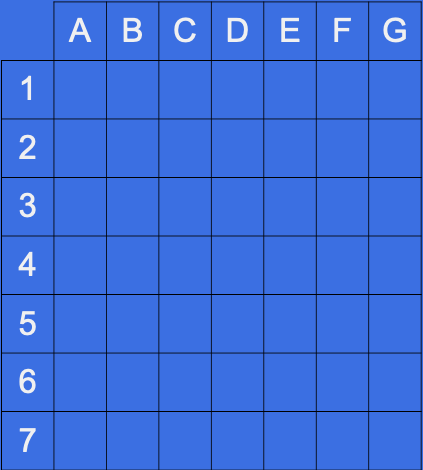
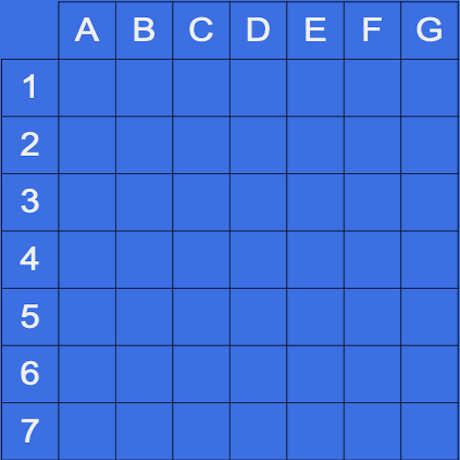
Manage grid coordinate user input

diff --git a/Main.py b/Main.py
@@ -6,7 +6,7 @@ pygame.init()
 
 monitorSize = [pygame.display.Info().current_w, pygame.display.Info().current_h] #Get's the monitor size of the user's computer
 #For mine, Macbook Air 2015, it's 13.3-inch, 1440 x 900 pixel display (128 ppi) so it'll be [1440, 900]
-print(monitorSize)
+
 windowSize = (800, 600) #TODO: Make the default size relative to the screen size
 screen = pygame.display.set_mode(windowSize, pygame.RESIZABLE)
 pygame.display.set_caption("Pirate Game")
@@ -64,9 +64,10 @@ def loadGame():
     shield = bool(states[1])
     mirror = bool(states[2])
     bankAmount = int(states[3])
-    #enteredCoordinates = states[4].replace("[", "").replace("]", "").split(", ")     does the same as below, easier to read 
+    #enteredCoordinates = states[4].replace("[", "").replace("]", "").split(", ")     does the same as below, both work. 
     enteredCoordinates = states[4][1:len(states[4])-1].split(", ")
     
+    #convert from 1 huge 1D array called items to a 7 by 7 2D array of Strings called gridString
     items = states[5][:len(states[5])-2].replace("[", "").replace("]", "").replace(" ", "").split(",")
     gridString = []
     itemNumber = 0
@@ -83,11 +84,13 @@ def loadGame():
         "shield": Shield(), "sinkship": SinkShip(), "backstab": Backstab(), "sneakpeek": SneakPeak(),
         "bank": Bank(), "$200": Cash(200), "$1000": Cash(1000), "$3000": Cash(3000), "$5000": Cash(5000)
         }
+    
+    #turn the grid into a grid of game item objects instead of grid of strings
     for rowNum, row in enumerate(gridString):
         grid.append([])
         for element in row:
             grid[rowNum].append(itemDict[element])
-    
+            
     mainScreen(grid, enteredCoordinates, cash, bankAmount, shield, mirror)
 
 def titleScreen():
@@ -182,6 +185,7 @@ def mainScreen(grid, enteredCoordinates, cash, bankAmount, shield, mirror):
     
     gridImage = pygame.image.load("Images/grid.png")
     gridImageSize = gridImage.get_rect().size
+    print(gridImageSize)
     screen.blit(gridImage, (windowSize[0]//2 - gridImageSize[0]//2, windowSize[1]//2 - gridImageSize[1]//2))
     
     cashButton = Button(colours["green"], 620, 20, 180, 30, text="Cash: %d" % cash)
@@ -207,12 +211,12 @@ def mainScreen(grid, enteredCoordinates, cash, bankAmount, shield, mirror):
                 filename = "Images/GameItems/" + element.itemName + ".png"
                 image = pygame.image.load(filename)
                 image = pygame.transform.scale(image, (48, 48))
-                screen.blit(image, (rowCoordinate * 53 + 245, colCoordinate * 58 + 130)) #TODO: Don't hard code the numbers
+                screen.blit(image, (rowCoordinate * 57 + 234, colCoordinate * 57 + 135)) #TODO: Don't hard code the numbers
     
     mainScreen = screen.copy()
     clickable = False #initially, the user may not enter a square
     
-    while True: #TODO: While there are still squares to be picked
+    while len(enteredCoordinates) != 49:
         for event in pygame.event.get():
             mousePosition = pygame.mouse.get_pos()
             
@@ -225,24 +229,26 @@ def mainScreen(grid, enteredCoordinates, cash, bankAmount, shield, mirror):
                 if event.key == pygame.K_SPACE:
                     currentScreen = screen.copy()
                     clickable = True #the user may now click on the grid to remove a square
-                    
+                     
                     myriadProFont = pygame.font.SysFont("Myriad Pro", 48)
                     messageToUser = myriadProFont.render("Click on the coordinate that the teacher called out", 1, colours["black"], colours["white"])
                     messageSize = messageToUser.get_size()
                     screen.blit(messageToUser, (windowSize[0]//2 - messageSize[0]//2, windowSize[1]//2 - messageSize[1]//2))
-                    pause(seconds=2)
+                    pause(seconds=1)
                     screen.blit(currentScreen, (0, 0))
                     
                 if event.key == pygame.K_p:
                     pause()
             
             if event.type == pygame.MOUSEBUTTONDOWN:
+                print(mousePosition)
                 if clickable:
                     #TODO: Game logic - don't hard code
 
                     #TODO: Check that the square clicked is not in enteredCoordinates
-                    xLeft, xRight = 244, 610
-                    yTop, yBottom = 126, 534
+                    xLeft, xRight = 228, 628
+                    yTop, yBottom = 129, 529
+                    squareSize = (xRight - xLeft) / 7#also equal to yBottom - yTop
                     #244, 126 - - - - - 610, 126
                     #    -    - - - - -     -
                     #    -    - - - - -     -
@@ -251,21 +257,42 @@ def mainScreen(grid, enteredCoordinates, cash, bankAmount, shield, mirror):
                     #    -    - - - - -     -
                     #244, 534 - - - - - 610, 534
                     
+                    #if the user presses within the boundaries of the grid
                     if mousePosition[0] > xLeft and mousePosition[0] < xRight and mousePosition[1] > yTop and mousePosition[1] < yBottom:
-                        row = int( (mousePosition[0] - xLeft) // ((xRight - xLeft)/7) )
-                        col = int( (mousePosition[1] - yTop) // ((yBottom - yTop)/7) )
+                        row = int( (mousePosition[0] - xLeft) // ((xRight - xLeft)/7) ) #calculate the row number from 0 - 6
+                        col = int( (mousePosition[1] - yTop) // ((yBottom - yTop)/7) ) #calculate the col number from 0 - 6
                         
-                        if intCoordinateToStrCoordinate(row, col) not in enteredCoordinates:
-                            #TODO: Fill the square with colours["sea"]
-                            print("Valid")
+                        if intCoordinateToStrCoordinate(row, col) not in enteredCoordinates:                            
+                            #topLeft corner of the square has the least x and y value
+                            top = int(yTop + (col * squareSize))
+                            left = int(xLeft + (row * squareSize))
+                            region = pygame.Rect((left, top), (int(squareSize), int(squareSize))) #the square to cover with blue
+                            screen.fill(colours["sea"], rect=region)
+                            print(grid[row][col].itemDescription)
                             enteredCoordinates.append(intCoordinateToStrCoordinate(row, col))
-                        else:
-                            print("Please enter available square")
+                        else: #This square was already played.
+                            #Remind the user to click on an empty square
+                            currentScreen = screen.copy()
+                            myriadProFont = pygame.font.SysFont("Myriad Pro", 48)
+                            warningMessage = myriadProFont.render("Please enter available square", 1, colours["black"], colours["white"])
+                            messageSize = warningMessage.get_size()
+                            screen.blit(warningMessage, (windowSize[0]//2 - messageSize[0]//2, windowSize[1]//2 - messageSize[1]//2))
+                            pause(seconds=1)
+                            screen.blit(currentScreen, (0, 0))
                     else:
-                        print("Please click inside the grid")
+                        #Remind the user to click inside the grid only
+                        currentScreen = screen.copy()
+                        myriadProFont = pygame.font.SysFont("Myriad Pro", 48)
+                        warningMessage = myriadProFont.render("Please click inside the grid", 1, colours["black"], colours["white"])
+                        messageSize = warningMessage.get_size()
+                        screen.blit(warningMessage, (windowSize[0]//2 - messageSize[0]//2, windowSize[1]//2 - messageSize[1]//2))
+                        pause(seconds=1)
+                        screen.blit(currentScreen, (0, 0))
                     
                     clickable = False #The user entered a square now, so they are now not allowed to enter again.
         pygame.display.update()
-
+    
+    #TODO: Pass in the total score to game over screen
+    #gameOverScreen(cash+bankAmount)
 if __name__ == "__main__":
     titleScreen()
